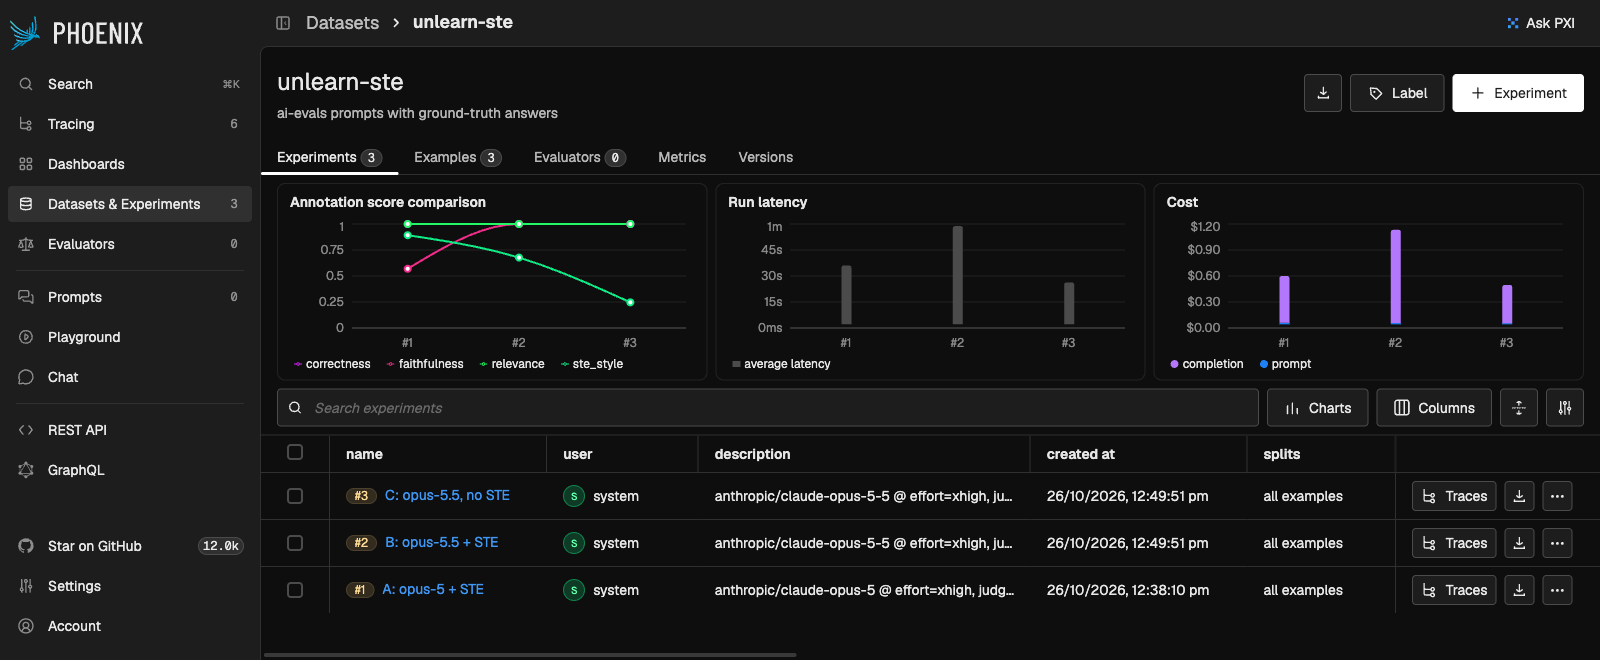
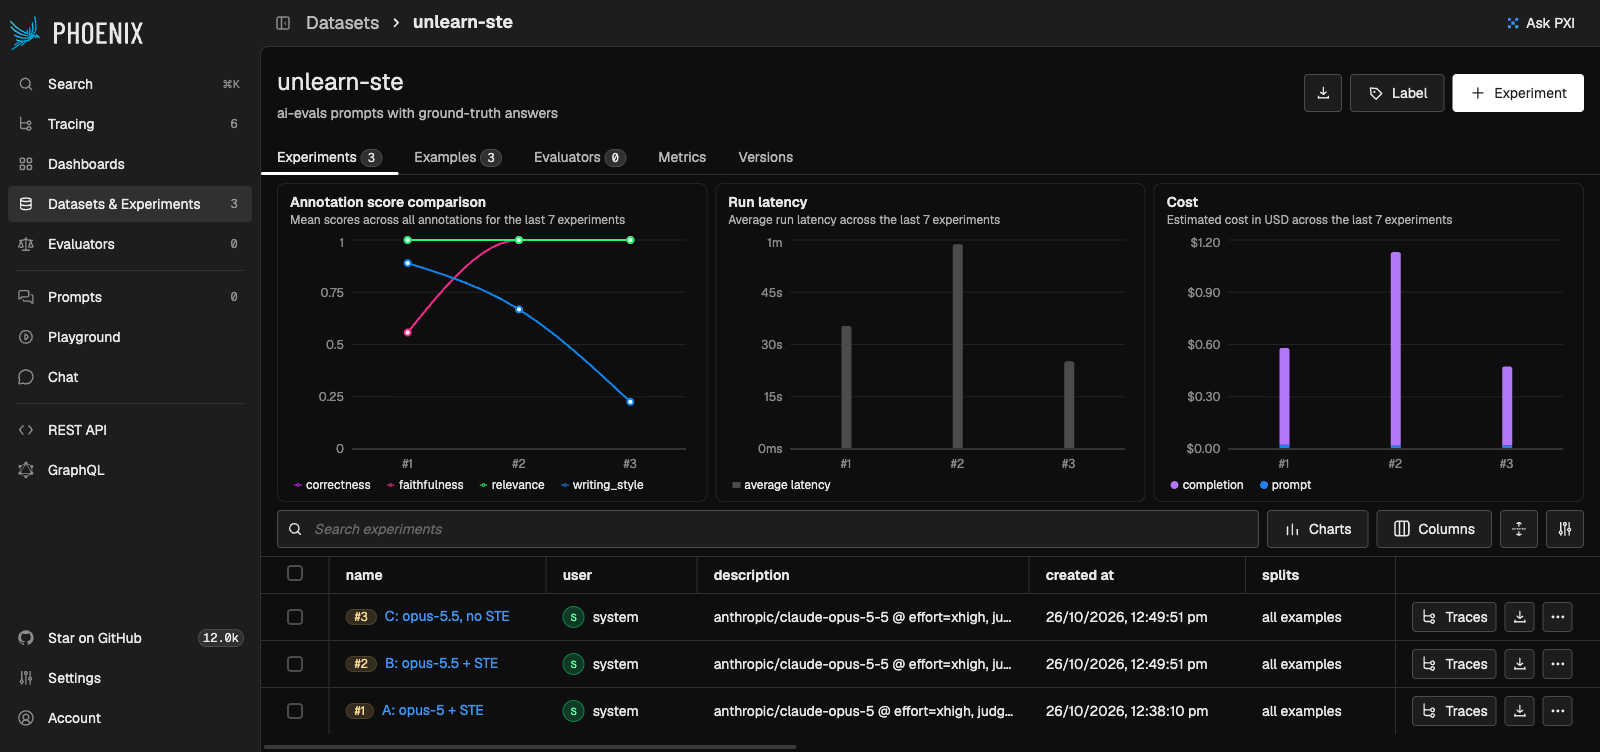
Rename the STE judge to writing_style so Phoenix colours it apart
Phoenix picks a chart colour from the first letter of the metric name,
so ste_style was the same green as relevance.

diff --git a/presentation/index.html b/presentation/index.html
@@ -265,7 +265,7 @@
   </section>
   <section>
     <h3>One judge explanation</h3>
-    <p>C, password rotation, ste_style: fail</p>
+    <p>C, password rotation, writing_style: fail</p>
     <blockquote>"Then restart the deployment again (step 4) and recheck (step 5)." It starts with an adverb and gives two actions in one instruction.</blockquote>
   </section>
   <section>
@@ -290,7 +290,7 @@
     <p>Rewrite for the real goal, then test that.</p>
     <p>Cites:</p>
     <ul>
-      <li>"6/9 vs 2/9", "Facts: no change", "2.4×", "~480 words": my own runs of evals/ste, 26 Oct 2026. Arms B and C, 3 cases × 3 repetitions each, judge Fable 5.1. Task cost $1.13 vs $0.47 in Phoenix. Ground truth averages 142 words. <a href="https://github.com/etoews/unlearn/tree/main/evals/ste">github.com/etoews/unlearn</a></li>
+      <li>"6/9 vs 2/9", "Facts: no change", "2.4×", "~480 words": my own runs of evals/ste, 26 Oct 2026. Scores are passes out of 9 runs per arm (3 cases × 3 repetitions), judged by Fable 5.1. Task cost $1.13 vs $0.47 in Phoenix. Ground truth averages 142 words. <a href="https://github.com/etoews/unlearn/tree/main/evals/ste">github.com/etoews/unlearn</a></li>
     </ul>
   </aside>
 </section>

diff --git a/evals/ste/README.md b/evals/ste/README.md
@@ -11,7 +11,7 @@ I added the line because Opus 5 wrote long, elliptical docs. Opus 5.5 claims bet
 - `cases/`: three docs tasks for Tui, a fictional internal Kubernetes platform. Each task gives messy source notes and asks for a page: a procedure, a concept page and a troubleshooting entry. The ground truth is the page I want.
 - `prompts/base.md`: the system prompt for every arm.
 - `prompts/ste.md`: the same prompt plus the STE line.
-- `judges/ste-style.yaml`: a binary judge for a subset of the STE writing rules. It runs beside the three built-in metrics (correctness, relevance and faithfulness).
+- `judges/writing-style.yaml`: the `writing_style` metric, a binary judge for a subset of the STE writing rules. It runs beside the three built-in metrics (correctness, relevance and faithfulness).
 
 ## Arms
 
@@ -31,7 +31,7 @@ You need the [ai-evals skill](https://github.com/etoews/skills/tree/main/skills/
 run() {
   uv run python scripts/run_eval.py --dataset "$EVAL/cases" --dataset-name unlearn-ste \
     --effort xhigh --judge-model anthropic/claude-fable-5-1 \
-    --judge-file "$EVAL/judges/ste-style.yaml" --repetitions 3 "$@"
+    --judge-file "$EVAL/judges/writing-style.yaml" --repetitions 3 "$@"
 }
 run --model anthropic/claude-opus-5   --system-prompt-file "$EVAL/prompts/ste.md"  --experiment-name "A: opus-5 + STE"
 run --model anthropic/claude-opus-5-5 --system-prompt-file "$EVAL/prompts/ste.md"  --experiment-name "B: opus-5.5 + STE"
@@ -44,9 +44,9 @@ Three cases are enough for a demo, not for a decision. Before you delete a real 
 
 ## Results, 26 Oct 2026
 
-Passes out of 9 runs per arm (3 cases × 3 repetitions). Relevance was 9/9 in every arm.
+Each score is passes out of runs. Every arm has 9 runs: 3 cases × 3 repetitions. Relevance was 9/9 in every arm.
 
-| Arm | Correctness | Faithfulness | STE style | Task cost | Average words |
+| Arm | Correctness | Faithfulness | Writing style (STE) | Task cost | Average words |
 |---|---|---|---|---|---|
 | A: Opus 5 + STE | 9/9 | 5/9 | 8/9 | $0.58 | 492 |
 | B: Opus 5.5 + STE | 9/9 | 9/9 | 6/9 | $1.13 | 478 |
